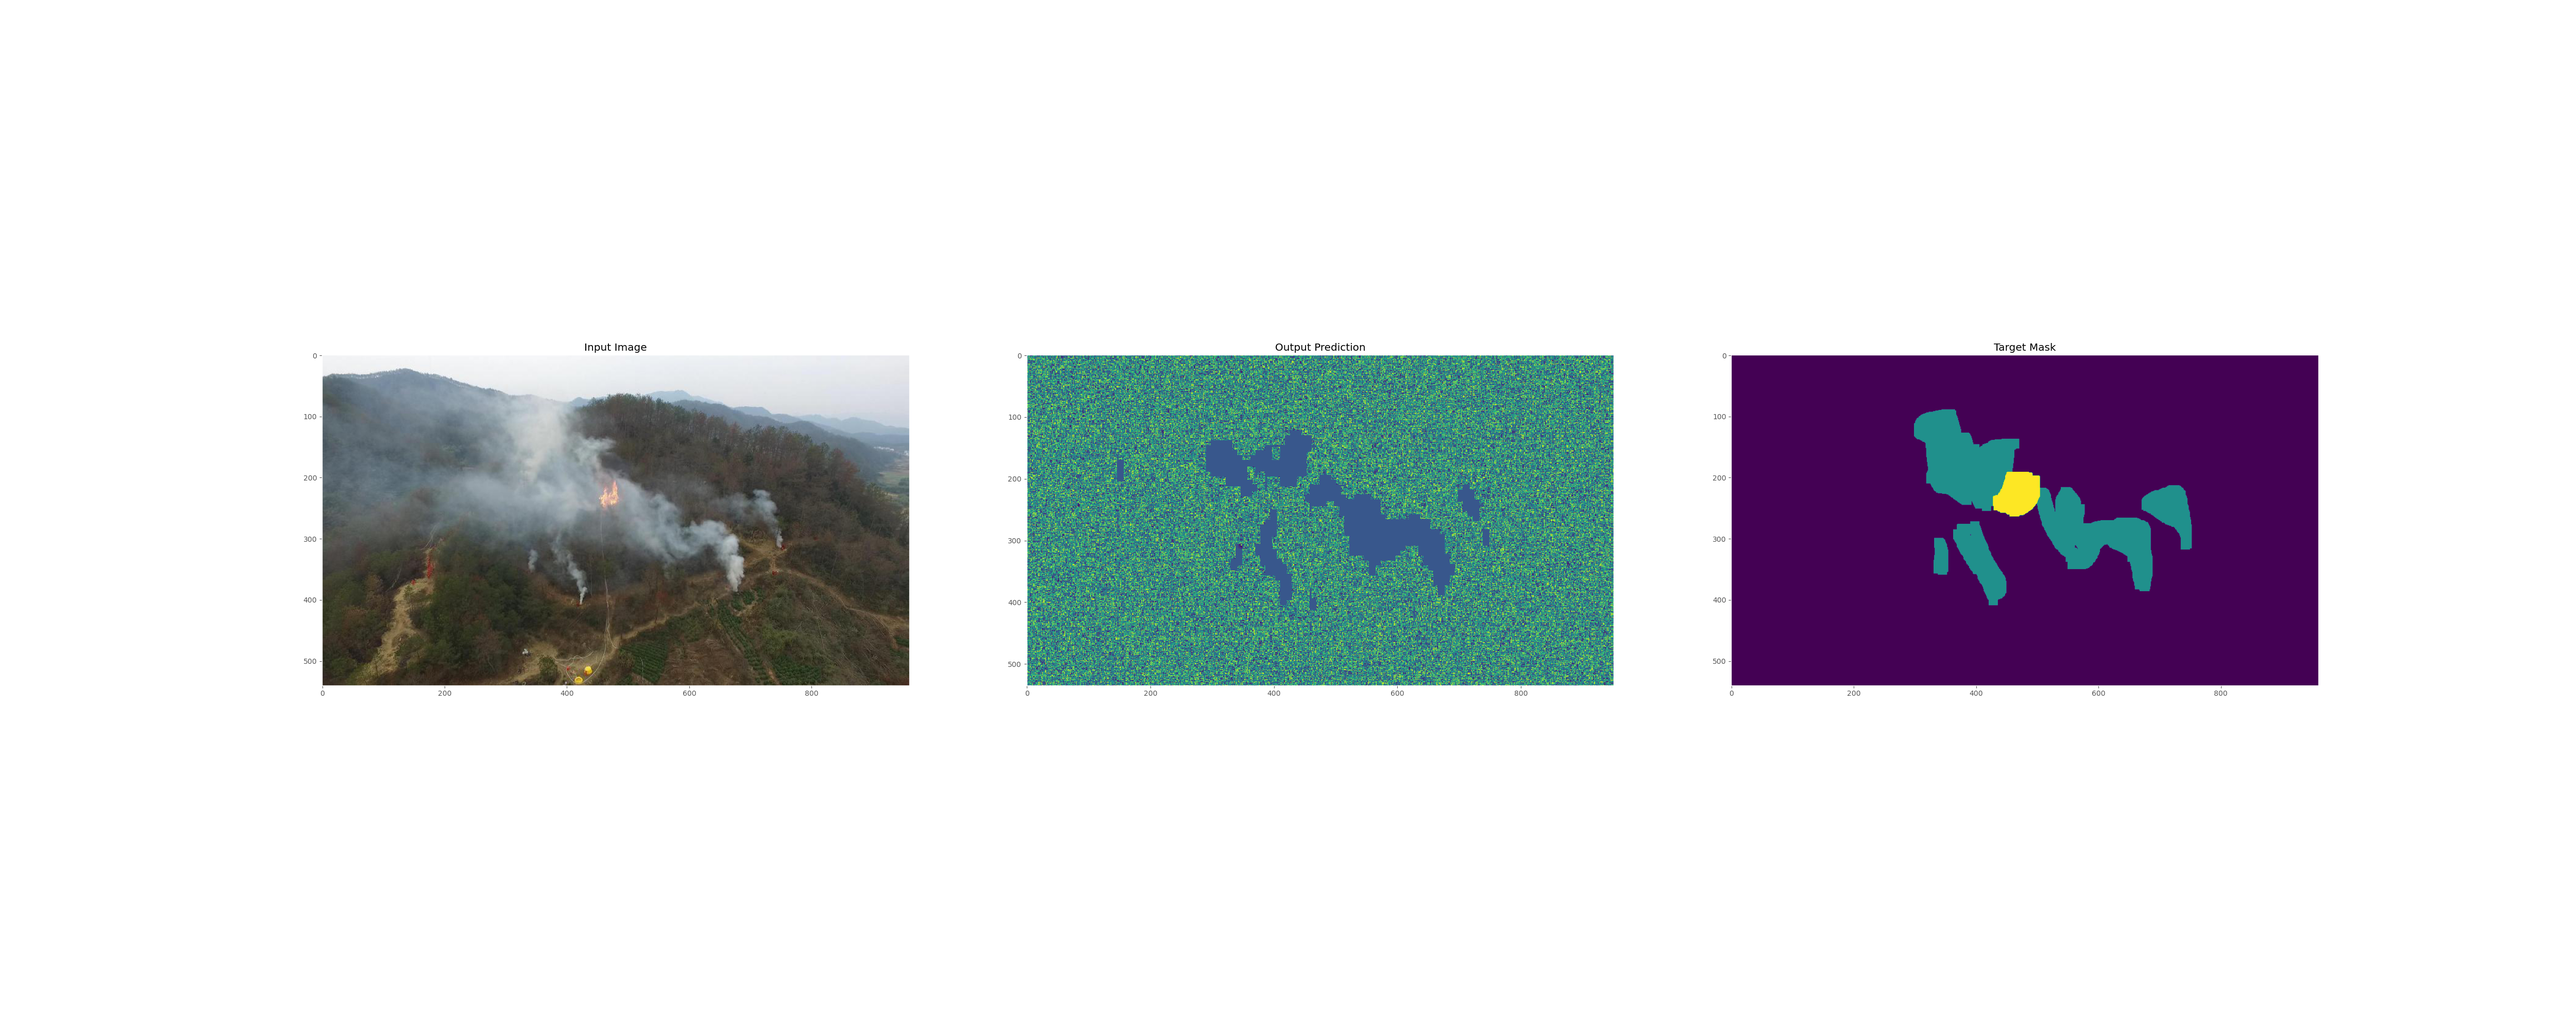
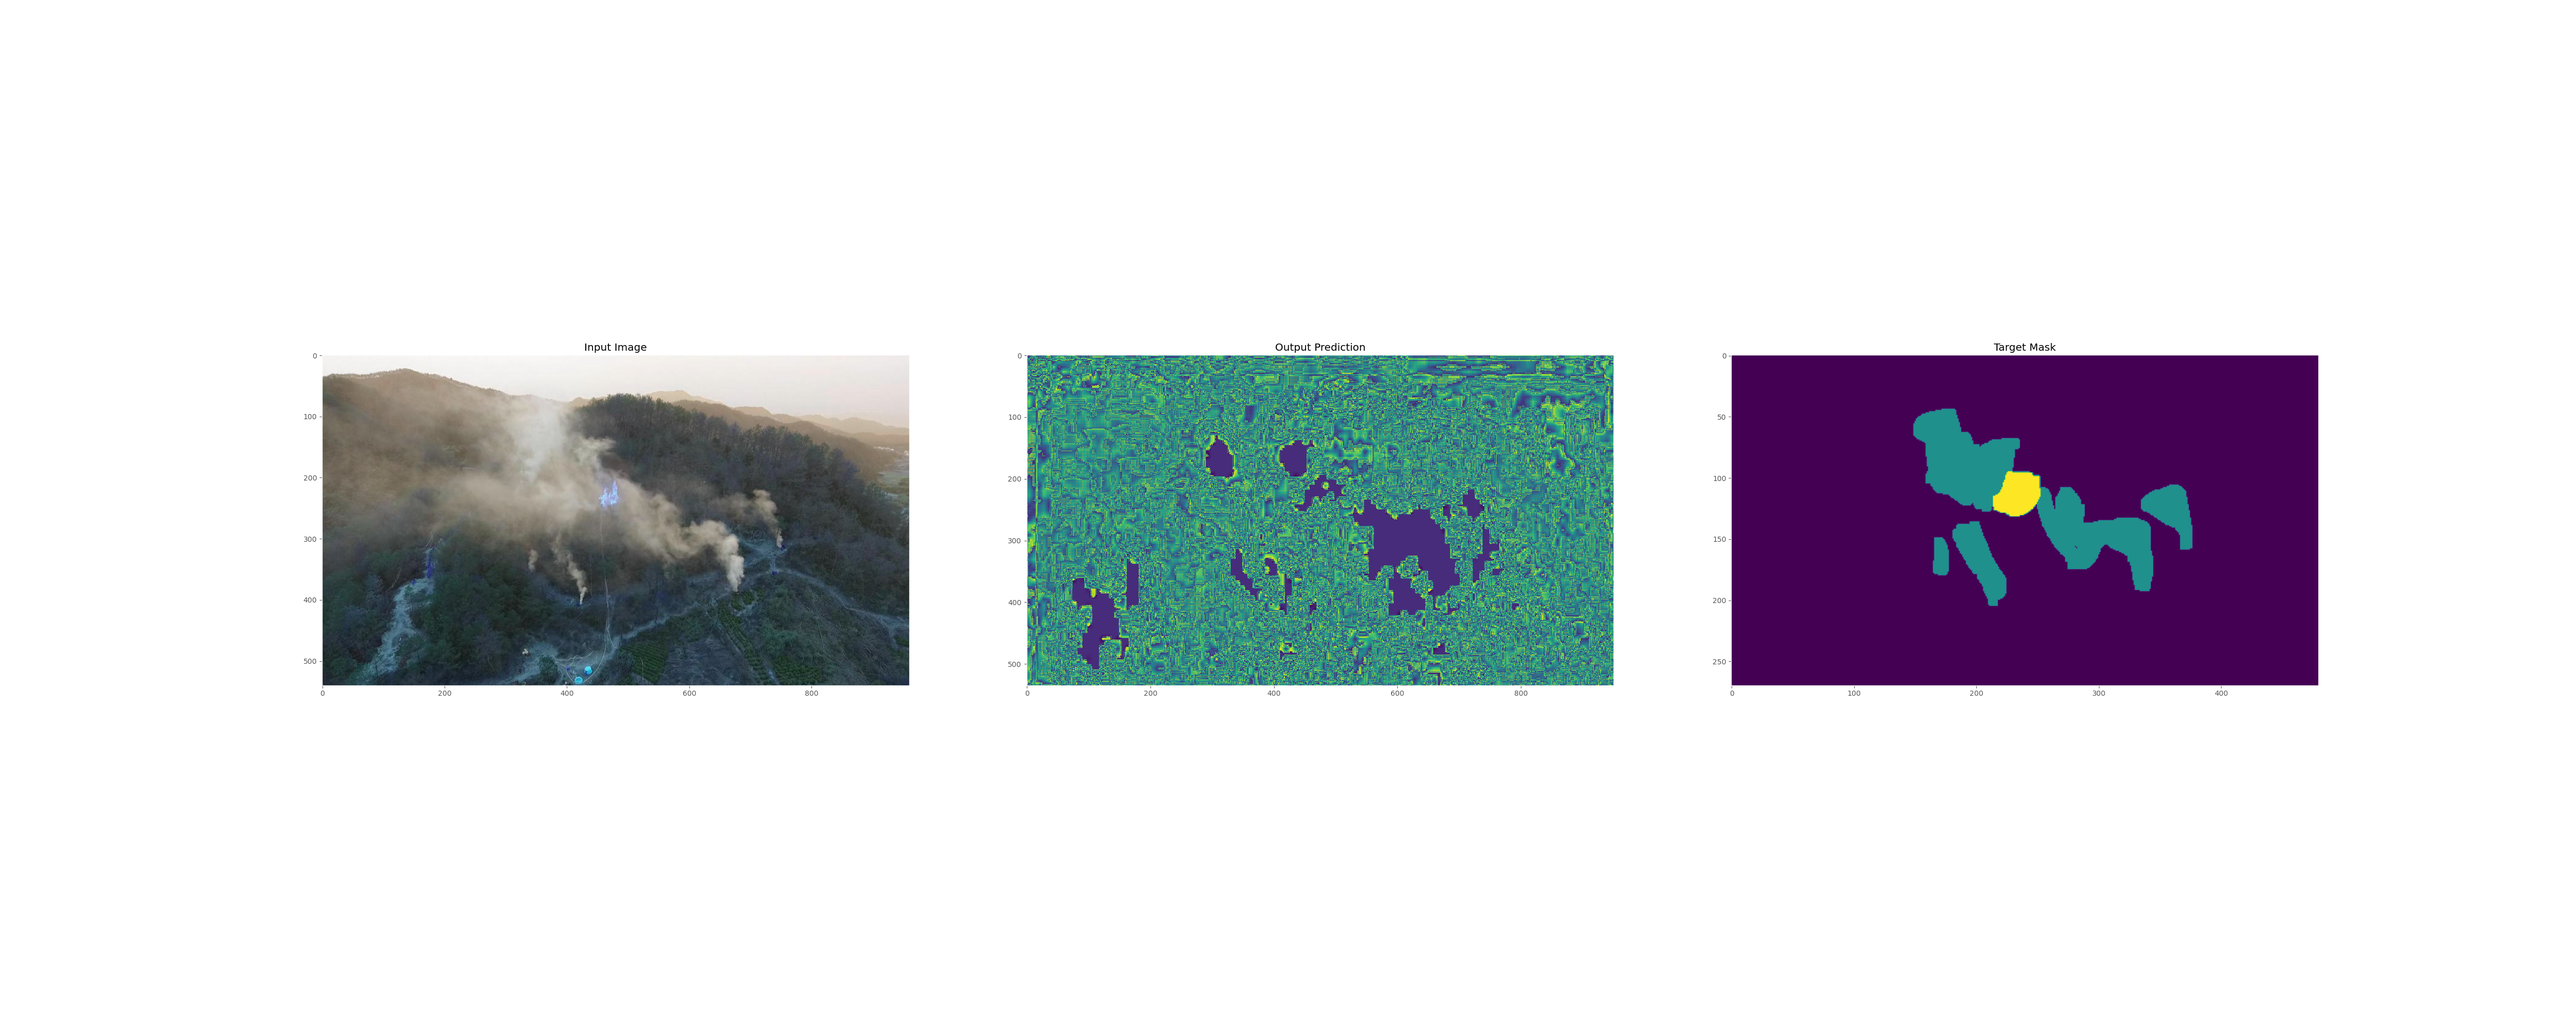
cv2 load dataset, tp, c

Changed region(s): [[0.1248, 0.341, 0.624, 0.682], [0.1248, 0.341, 0.1872, 0.496], [0.2184, 0.465, 0.2496, 0.496]]

diff --git a/havingfun/detection/segmentation/lightunet18/lightCVloader.py b/havingfun/detection/segmentation/lightunet18/lightCVloader.py
@@ -1,15 +1,15 @@
-# data loading part
 import os
-from PIL import Image
 from torch.utils.data import Dataset, Subset
-import numpy as np
 import matplotlib.pyplot as plt
 from torch.utils.data import DataLoader
+import torch
+
 import albumentations as A
 from albumentations.pytorch import ToTensorV2
-import torch
+
+import cv2
+import glob
 from tqdm import tqdm
-import torchvision
 
 Image_hight =400
 Image_weight = 400
@@ -25,41 +25,36 @@ Atransform = A.Compose([
     ToTensorV2(),
 ])
 
-class JinglingDataset(Dataset):
-    def __init__(self,  img_dir, mask_dir, transform = None):
+class CVdataset(Dataset):
+    def __init__(self,  img_dir= 'img_dir', mask_dir = 'mask_dir', transform = None):
         self.img_dir = img_dir
         self.mask_dir = mask_dir
         self.transform = transform
         self.imgs = os.listdir(img_dir)
         self.masks = os.listdir(mask_dir)
-
+  
     def __len__(self):        
         return len(self.imgs)
 
     def __getitem__(self, index):
         img_path = os.path.join(self.img_dir, self.imgs[index])
-        img_im = Image.open(img_path).convert('RGB')
-        img_np = np.array(img_im)
-        # mask_path = os.path.join(self.mask_dir, self.masks[index])
         mask_path = os.path.join(self.mask_dir, 'label_' + self.imgs[index])
-        mask_np = np.array(Image.open(mask_path).convert("L"), dtype=np.float32)
-        # mask_np[mask_np > 0.0] = 1.0
+        img_np = cv2.imread(img_path)
+        mask_np = cv2.imread(mask_path, cv2.COLOR_BGR2GRAY)
+        mask_np[mask_np > 0.0] = 1.0
+
         if self.transform:           
             augmentations = self.transform(image = img_np, mask = mask_np)
             img_tensor = augmentations['image']
             mask_tensor = augmentations['mask'].long()
         return img_tensor, mask_tensor
-    
+
 if __name__ == '__main__':
     Img_dir = ('datasets/S_kaggle_wildfire')
     Mask_dir = ('datasets/S_kaggle_wildfire_label')
-    data = JinglingDataset(img_dir=Img_dir, mask_dir = Mask_dir, transform = Atransform)
-    # img, mask = data
-    # print(img.shape)
-    # for i in range(len(data)):
-    #     img, mask = data[0][i], data[1][i]
-    # print(mask[1])
-
+    data = CVdataset(img_dir=Img_dir, mask_dir = Mask_dir, transform = Atransform)
+    
+    # split into train dataset and validation dataset
     dataset_size = len(data)
     print(f"Total number of images: {dataset_size}")
     valid_split = 0.2
@@ -69,7 +64,7 @@ if __name__ == '__main__':
     val_data = Subset(data, indices[-valid_size:])
     print(f"Total training images: {len(train_data)}")
     print(f"Total valid_images: {len(val_data)}")
-    
+
     batch_size = 1
     counter = 0
     train_loader = DataLoader(train_data, batch_size = batch_size, 
@@ -80,9 +75,9 @@ if __name__ == '__main__':
     for j, data in tqdm(enumerate(train_loader), total = len(train_data) // batch_size):
         counter += 1
         img_tensor, mask_tensor = data
-    print('img_tensor size:', img_tensor.size())
+    print('img_tensor size:', img_tensor.permute(0, 2, 3, 1).size())
     print('mask_tensor size:', mask_tensor.size())
     f, ax = plt.subplots(1, 2)
-    ax[0].imshow(img_tensor.squeeze(0).permute(1, 2, 0))
+    ax[0].imshow(img_tensor.permute(0, 2, 3, 1).squeeze(0))
     ax[1].imshow(mask_tensor.squeeze(0))
     plt.show()

diff --git a/havingfun/detection/segmentation/lightunet18/lighttest.py b/havingfun/detection/segmentation/lightunet18/lighttest.py
@@ -1,9 +1,8 @@
 import torch
-
 from lightunet import LightUnet
 from lightutils import (
     load_model,
-    save_predictions_as_imgs,
+    # save_predictions_as_imgs,
     plot_img_and_mask,
 )
 import argparse
@@ -11,6 +10,7 @@ import argparse
 import torchvision
 
 from PIL import Image
+import cv2
 import matplotlib.pyplot as plt
 import os
 # Hyperparameters: batch size, number of workers, image size, train_val_split, model
@@ -58,16 +58,23 @@ print(f'==============> There are {total_params:,} total parameters of this mode
 
 def main():
     
-    os.system('export DISPLAY=:0.0')
-    
     img_path = Target_img
-    img_im = Image.open(img_path).convert('RGB')
-    mask_im =Image.open(tarmask_path).convert('L')
+
+    # img_im = Image.open(img_path).convert('RGB')
+    # mask_im =Image.open(tarmask_path).convert('L')
+
+    img_cv2 = cv2.imread(img_path)
+    mask_cv2 = cv2.imread(tarmask_path, cv2.COLOR_BAYER_BG2GRAY)
+    img_im = Image.fromarray(img_cv2)
+    mask_im = Image.fromarray(mask_cv2)
+
     trans2tensor = torchvision.transforms.ToTensor()
     img_tensor = trans2tensor(img_im).unsqueeze(0).to(device = Device)
-    load_model(checkpoint, model)
-    pred_tensor = 255 * model(img_tensor)
+    print(img_tensor.size())
 
+    load_model(checkpoint, model)
+    pred_tensor = model(img_tensor).squeeze(1)
+    print(pred_tensor.size())
     pred_tensor = pred_tensor.squeeze(1)
     trans2img = torchvision.transforms.ToPILImage()
     pred_im = trans2img(pred_tensor).convert('L')
@@ -77,13 +84,13 @@ def main():
 
     plot_img_and_mask(img_im, pred_im, mask_im)
 
-    # print some examples to a folder
-    # save_predictions_as_imgs(val_loader, 
-    #                             model, 
-    #                             folder = 'havingfun/detection/segmentation/saved_imgs', 
-    #                             device = Device)
+    # # print some examples to a folder
+    # # save_predictions_as_imgs(val_loader, 
+    # #                             model, 
+    # #                             folder = 'havingfun/detection/segmentation/saved_imgs', 
+    # #                             device = Device)
 
-    # plot loss and acc
+    # # plot loss and acc
 
 if __name__ == '__main__':
     main()

diff --git a/havingfun/detection/segmentation/lightunet18/lightlrfind.py b/havingfun/detection/segmentation/lightunet18/lightlrfind.py
@@ -1,0 +1,42 @@
+# this function is to find appropriate learning rate for NNs
+from torch_lr_finder import LRFinder
+from lightunet import LightUnet
+from lightCVloader import CVdataset
+from torch.utils.data import DataLoader
+import torch.nn as nn
+import torch.optim as optim
+import matplotlib.pyplot as plt
+import albumentations as A
+from albumentations.pytorch import ToTensorV2
+
+Image_hight =400
+Image_weight = 400
+Atransform = A.Compose([
+    A.Resize(Image_hight, Image_weight),
+    A.HorizontalFlip(p = 0.2),
+    A.RandomBrightnessContrast(p = 0.2),
+    A.Normalize(
+        mean = [0.0, 0.0, 0.0],
+        std = [1.0, 1.0, 1.0],
+        max_pixel_value=255.0,
+    ),
+    ToTensorV2(),
+])
+
+Img_dir = ('datasets/S_kaggle_wildfire')
+Mask_dir = ('datasets/S_kaggle_wildfire_label')
+Data = CVdataset(img_dir=Img_dir, mask_dir = Mask_dir, transform = Atransform)
+Device = 'cpu'
+Model = LightUnet(in_channels=3, out_channels=1)
+Loss_fn = nn.MSELoss()
+Optimizer = optim.Adam(Model.parameters(), lr = 1e-6, weight_decay = 1e-2)
+batch_size = 1
+counter = 0
+data_loader = DataLoader(Data, batch_size = batch_size, 
+                          num_workers = 0, 
+                          pin_memory = 2,
+                          shuffle = True)
+lr_finder = LRFinder(model = Model, optimizer=Optimizer, criterion=Loss_fn, device = Device)
+lr_finder.range_test(train_loader=data_loader, end_lr = 100, num_iter=100)
+lr_finder.plot()
+lr_finder.reset()
